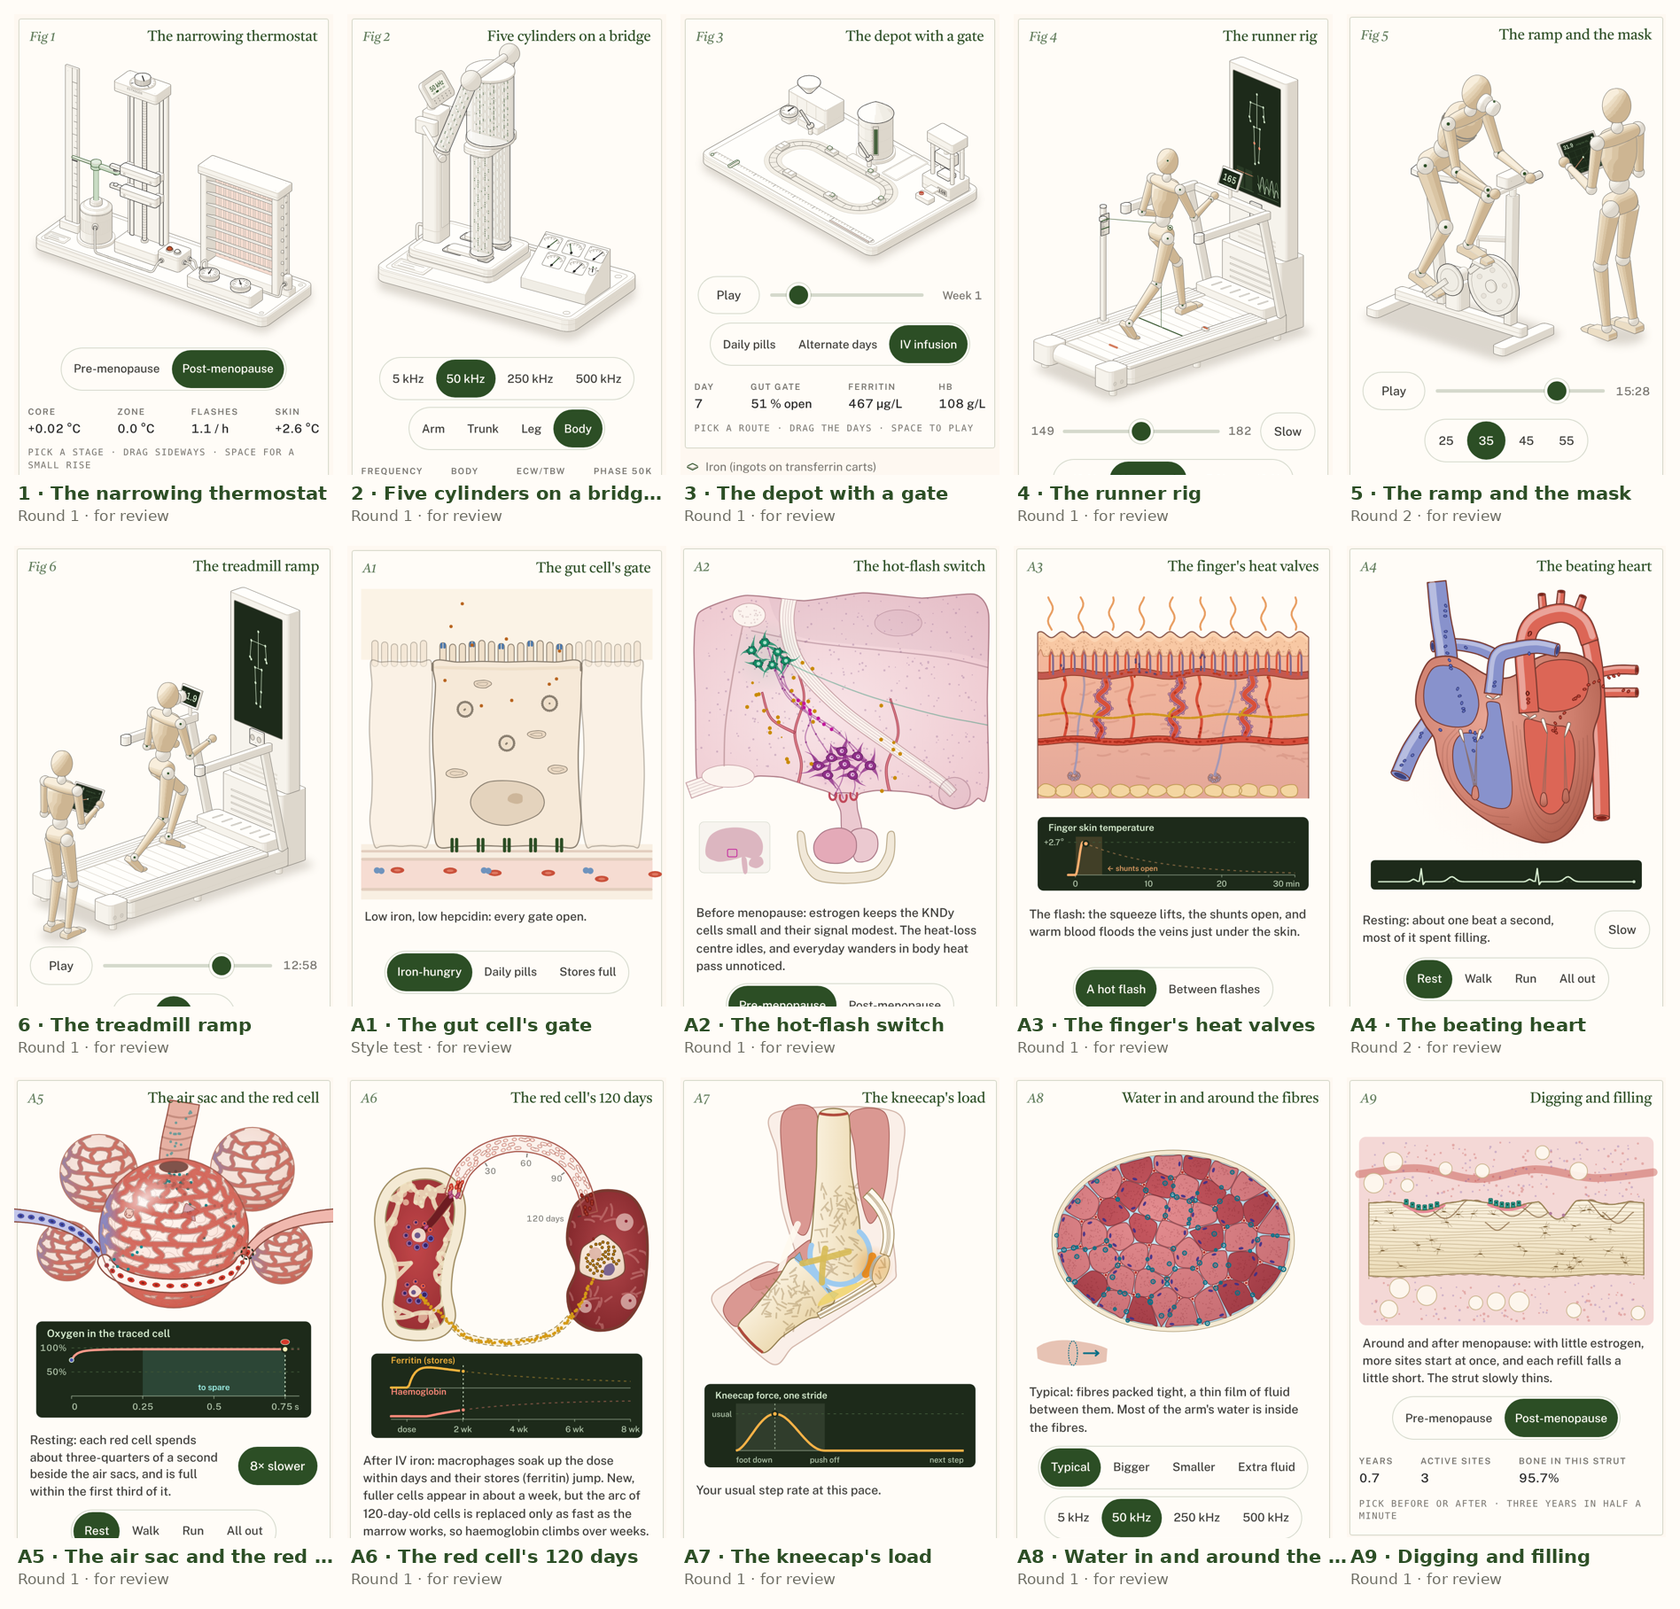
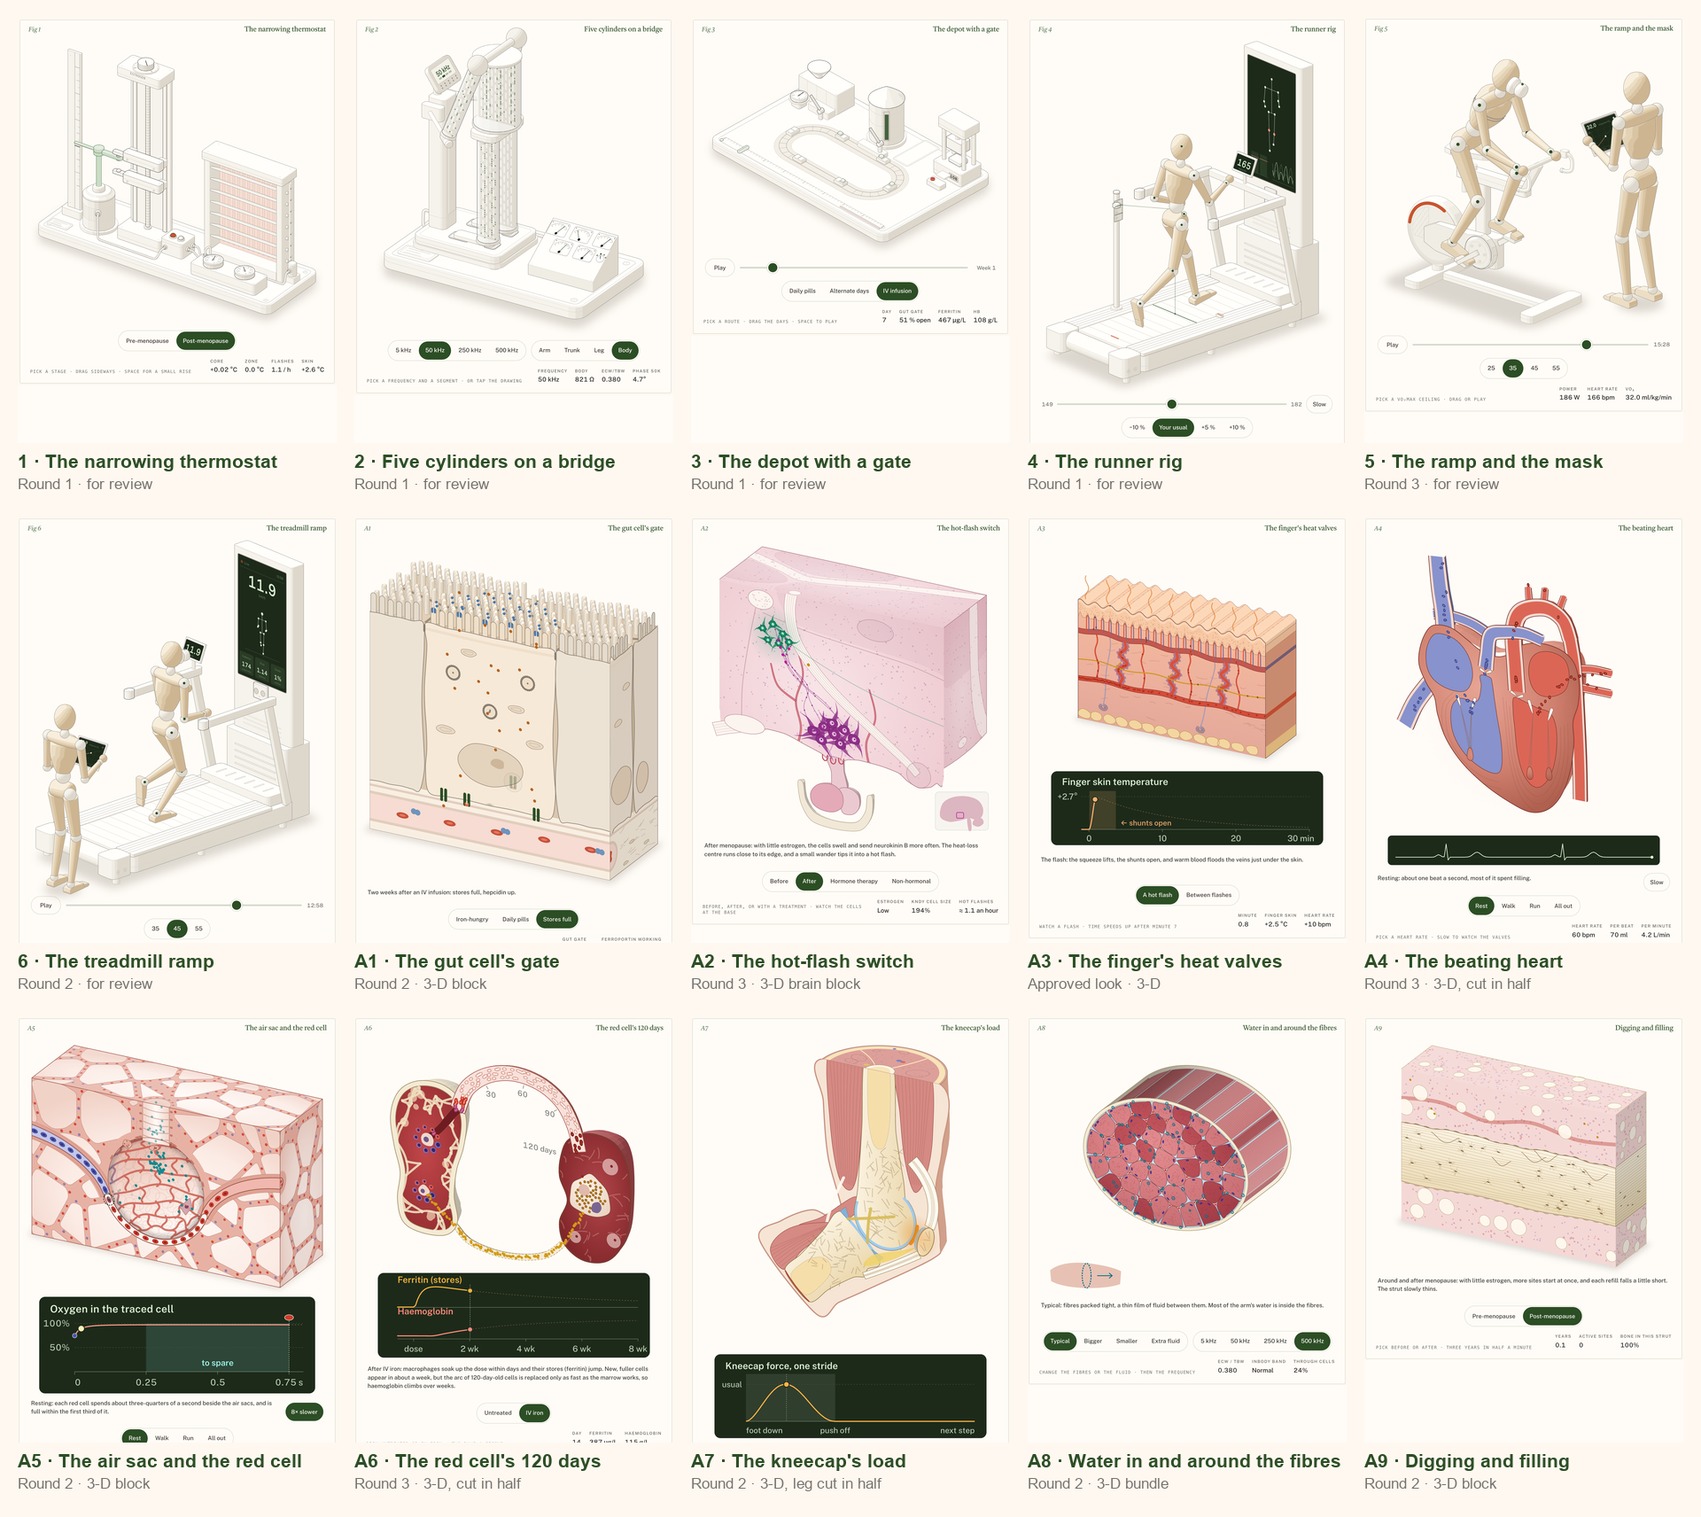
Contact sheet, handoff and backlog for the finished 3-D conversion
- review/contact-sheet.png is regenerated: all 15 figures, with every
  anatomy piece now in isometric 3-D. New scripts/contact-sheet.py
  rebuilds it from the Cream desktop captures (Pillow).
- HANDOFF-LOCAL:
  - status table brought up to date;
  - decisions 13 and 14 (the organ approach Peter approved on A7; the
    heart animation note);
  - open questions and next steps rewritten;
  - recipe split into 6a, tissue blocks, and 6b, organs cut in half
    with shared/round-back.js;
  - verify is now one command;
  - four new gotchas.
- BACKLOG marks the 3-D conversion done and lists what's open.
- CLAUDE.md lists the verify and contact-sheet commands.
- Phone shots refreshed after the shared-theme fixes (all 15 at 320 px).

diff --git a/scripts/contact-sheet.py b/scripts/contact-sheet.py
@@ -1,0 +1,66 @@
+# Rebuild review/contact-sheet.png: every figure's Cream desktop capture, cropped to its art, in a 5-column
+# grid with its number, title and status (from figure.json). Run after scripts/verify.mjs has refreshed the
+# shots:  python3 scripts/contact-sheet.py   (needs Pillow: pip install pillow)
+import json
+import os
+from PIL import Image, ImageDraw, ImageFont
+
+ROOT = os.path.dirname(os.path.dirname(os.path.abspath(__file__)))
+# folder, the capture that best shows the idea (first that exists)
+ORDER = [
+    ("01-menopause-thermostat", ["desktop-light-flash.png", "desktop-light.png"]),
+    ("02-inbody-580", ["desktop-light.png"]),
+    ("03-iv-iron", ["desktop-light-iv-day7.png", "desktop-light.png"]),
+    ("04-creator-600", ["desktop-light.png"]),
+    ("05-vo2max", ["desktop-light.png"]),
+    ("06-vo2max-treadmill", ["desktop-light.png"]),
+    ("a1-gut-cell", ["desktop-full-light.png", "desktop-light.png"]),
+    ("a2-hypothalamus", ["desktop-post-light.png", "desktop-light.png"]),
+    ("a3-finger-skin", ["desktop-light.png"]),
+    ("a4-heart", ["desktop-light.png"]),
+    ("a5-alveolus", ["desktop-light.png"]),
+    ("a6-red-cell-cycle", ["desktop-iv-light.png", "desktop-light.png"]),
+    ("a7-knee", ["desktop-light.png"]),
+    ("a8-muscle-water", ["desktop-light.png"]),
+    ("a9-bone-remodelling", ["desktop-post-light.png", "desktop-light.png"]),
+]
+CW, CH, COLS, PAD, LABEL = 360, 480, 5, 20, 64
+
+
+def font(size, bold=True):
+    for f in ["/System/Library/Fonts/Supplemental/Arial Bold.ttf" if bold else "/System/Library/Fonts/Supplemental/Arial.ttf", "/usr/share/fonts/truetype/dejavu/DejaVuSans-Bold.ttf"]:
+        try:
+            return ImageFont.truetype(f, size)
+        except OSError:
+            pass
+    return ImageFont.load_default()
+
+
+cards = []
+for folder, names in ORDER:
+    base = os.path.join(ROOT, "figures", folder)
+    path = next((os.path.join(base, "shots", n) for n in names if os.path.exists(os.path.join(base, "shots", n))), None)
+    if not path:
+        continue
+    meta = json.load(open(os.path.join(base, "figure.json"))) if os.path.exists(os.path.join(base, "figure.json")) else {}
+    im = Image.open(path).convert("RGB")
+    im = im.resize((CW, round(im.height * CW / im.width)), Image.LANCZOS)
+    card = Image.new("RGB", (CW, CH), (255, 252, 247))  # captures shorter than the crop sit on cream, not black
+    card.paste(im.crop((0, 0, CW, min(CH, im.height))), (0, 0))
+    im = card
+    n = str(meta.get("n", ""))
+    cards.append((im, f"{n if n.startswith('A') else n} · {meta.get('title', folder)}", meta.get("status", "")))
+
+rows = (len(cards) + COLS - 1) // COLS
+sheet = Image.new("RGB", (PAD + COLS * (CW + PAD), PAD + rows * (CH + LABEL + PAD)), (254, 248, 241))
+d = ImageDraw.Draw(sheet)
+for i, (im, title, status) in enumerate(cards):
+    x = PAD + (i % COLS) * (CW + PAD)
+    y = PAD + (i // COLS) * (CH + LABEL + PAD)
+    sheet.paste(im, (x, y))
+    t = title if d.textlength(title, font=font(21)) <= CW else title[: max(4, int(len(title) * CW / d.textlength(title, font=font(21))) - 2)] + "…"
+    d.text((x, y + CH + 8), t, fill=(44, 78, 37), font=font(21))
+    d.text((x, y + CH + 36), status, fill=(118, 115, 109), font=font(17, False))
+out = os.path.join(ROOT, "review", "contact-sheet.png")
+sheet.save(out)
+print("wrote", os.path.relpath(out, ROOT), sheet.size, f"{len(cards)} figures")

diff --git a/HANDOFF-LOCAL.md b/HANDOFF-LOCAL.md
@@ -1,6 +1,6 @@
 # Handoff: continuing locally
 
-The cloud session ends here; its credits are nearly spent. This file is the full state of the project for a local Claude Code session on the Mac, which runs on the Max plan's limits, not cloud credits. **Last updated:** 2026-10-12, end of cloud work. `main` and the cloud branch `claude/wonderful-mayer-ga12kl` are identical. Work on `main`, or on a new branch merged to `main`.
+This file is the full state of the project. It was written for the hand-off from the cloud session to a local Claude Code session on the Mac (Max plan limits, not cloud credits), and the local session has kept it current since. **Last updated:** 2026-10-12, end of the local session: every A-piece is now isometric 3-D. Work on `main`.
 
 **First prompt for the local session:**
 > Read CLAUDE.md, HANDOFF.md, HANDOFF-LOCAL.md and BACKLOG.md. Then continue from "Next steps" in HANDOFF-LOCAL.md.
@@ -13,7 +13,7 @@ cd optimal-anatomy-figures
 node -v                               # needs Node 20+ (brew install node)
 bash scripts/setup-cloud.sh           # finds Chrome, writes .env.chrome, smoke-tests a capture
 source .env.chrome                    # every capture/drive/lines command needs CHROME_PATH
-node scripts/build-all.mjs            # builds all 16 figures + gallery into dist/
+node scripts/build-all.mjs            # builds all 15 figures + gallery into dist/ ("15/15 built")
 open dist/index.html
 claude                                # Claude Code reads CLAUDE.md on start
 ```
@@ -21,7 +21,7 @@ claude                                # Claude Code reads CLAUDE.md on start
 - `scripts/chrome-root.sh` (Chrome with `--no-sandbox`) is only for cloud containers that run as root. On the Mac, `setup-cloud.sh` should find `/Applications/Google Chrome.app`. If it doesn't, set `CHROME_PATH` in `.env.chrome` by hand.
 - Live gallery: https://optimal-research-team.github.io/optimal-anatomy-figures/. Pushing `main` deploys it via `.github/workflows/pages.yml` in about a minute.
 
-## 2. Status (16 figures, all in the gallery)
+## 2. Status (15 figures, all in the gallery; every anatomy piece is 3-D)
 
 | # | Figure | State | Folder |
 |---|---|---|---|
@@ -37,7 +37,7 @@ claude                                # Claude Code reads CLAUDE.md on start
 | A4 | Beating heart | **Round 3 · 3-D, cut in half** (2026-10-12): back half round and beating (shared/round-back.js), vessels cut open with half-ring ends | `a4-heart` |
 | A5 | Air sac and red cell | **Round 2 · 3-D block of lung** (2026-10-12): Voronoi foam cut on three faces, one sac opened with its bowl, duct to the top | `a5-alveolus` |
 | A6 | Red cell's 120 days | **Round 3 · 3-D, cut in half** (2026-10-12): bone cut lengthwise, spleen cut open, arc and return as half-pipes, all with round backs | `a6-red-cell-cycle` |
-| A7 | Kneecap's load | **Round 2 · 3-D, leg cut in half** (2026-10-12): far half stays round (live), thigh cross-section on top. The organ-piece approach, **waiting on Peter's OK** before A2/A4/A6 | `a7-knee` |
+| A7 | Kneecap's load | **Round 2 · 3-D, leg cut in half** (2026-10-12): far half stays round (live), thigh cross-section on top. Peter: "way better, just do it like this", so it became the organ-piece approach | `a7-knee` |
 | A8 | Water in and around the fibres | **Round 2 · 3-D bundle**: slice on the face of a muscle cylinder; body redrawn live | `a8-muscle-water` |
 | A9 | Digging and filling (bone) | **Round 2 · 3-D block**; caption uses the Menopause Protocol's Greendale numbers | `a9-bone-remodelling` |
 
@@ -66,30 +66,31 @@ Every figure folder holds:
     - **Every other piece** is converted in place, as A8 and A9 were. No flat version stays in the gallery once its 3-D version exists.
 11. **A1: yes, convert to 3-D.**
 12. **A2, A4, A6 and A7 go 3-D too.** Pick the best approach from §5.2, build it on A7 (knee) first, and send screenshots. Wait for Peter's OK before converting A2, A4 and A6 the same way.
+13. **The organ approach is "cut in half, far half round."** A first try on A7, a constant-thickness slab, read as "an unnatural slice of some kind". The leg cut in half lengthwise, with the far half keeping its round skin and the thigh's cross-section on top, got "this is way better man just do it like this". A2 (as a brain block, since it's a piece of tissue cut out), A4 and A6 followed (§6b).
+14. **The heart animation "looks not great."** Fixed what a frame review found (aorta across the left atrium, arch seam, lumpy back half; see A4 NOTES). **Ask Peter whether it now reads right**, or what still bothers him: the beat itself (squeeze, valve timing) is unchanged from round 2.
 
 ## 4. Open questions for Peter
 
-- ~~Creator 600 screen size~~, ~~A3 vs A3b~~, ~~A1 look~~: answered 2026-10-12, see §3 items 9–11.
+- **The heart (A4):** after the fixes, does the animation read right? If not, what bothers you (the squeeze, the valves, the vessels, the colours)?
+- **Placement:** see `review/site-placement.md` (the beoptimal.ca scan), which proposes a home for every figure.
 - **Network:** with `beoptimal.ca`, `bici.cc` and `inbodycanada.ca` allowed (or locally), re-read the site pages directly instead of PDFs.
+- ~~Creator 600 screen size~~, ~~A3 vs A3b~~, ~~A1 look~~, ~~organ-piece approach~~: answered 2026-10-12, see §3.
 
 ## 5. Next steps (priority order)
 
-1. **Convert A1 (gut cell) and A5 (alveolus) to 3-D**, using the recipe in §6. A1 suits a block (a strip of gut lining: villi on top, cells on the front face). A5 suits a cut sphere or a block of lung tissue with the air sac opened.
-2. **Organ pieces (A2, A4, A6, A7):** these don't fit a block. Options, cheapest first:
-   - a short, deep slab under the flat drawing, giving a "specimen on a plate" look;
-   - shading the existing outlines with gradients and rim light to make them read as volumes;
-   - a true isometric rebuild (most work).
-
-   Ask Peter which he wants before doing more than one.
-3. **Re-run the full verification on A8 and A9** at 390 and 360 px; only 320 was captured after the 3-D change. Then refresh `review/contact-sheet.png`.
+1. **Peter's call on the heart (A4).** Then any round-4 changes.
+2. **Embeds on the site:** use the placement map (`review/site-placement.md`). Each figure ships `embed/optimal-fig-<slug>.js`, and NOTES.md has the snippet. The site repo (`BeOptimal/beoptimal-landing`) is a separate handoff.
+3. **Site copy fix:** the Creator 600 page says "32″ upright display"; it's about 50″ (§3 item 9).
 4. **Truth pass with the network open:** re-check the MEDIUM/LOW rows in `reference/truth-pack.md`.
 5. **Round-2 options still open** (BACKLOG.md):
    - Fig 2: an ECW/TBW scenario switch, partly covered by A8 now;
    - Fig 3: readout wording;
    - Fig 1: optional WebGL heat shimmer (at most one WebGL layer, and the SVG must read without it).
-6. **Embedding:** each figure ships `embed/optimal-fig-<slug>.js`; NOTES.md has the snippet. Give Peter the snippets for the pages he names.
+6. **Optional tidy-up:** A7's `drawFar()` predates `shared/round-back.js` and could move onto it (`chords()`), as A2, A4 and A6 already have.
 
-## 6. The 3-D recipe (A3b, A8, A9)
+## 6. The 3-D recipe
+
+### 6a. Tissue blocks (A1, A3, A5, A8, A9)
 
 - **Projection:** `k.fitProjection(BOUNDS3, 600, H, { pad, azimuth: 62, elevation: 24 })`, then `FB = figkit(PB)`. At azimuth 62° the front section stays almost face-on and still legible on a phone, and the top and right end show depth. At 30° the face is too foreshortened.
 - **World coordinates = section pixels:** x along the section, y back into the tissue, z up. A helper `W3(sx, y, sy) = [sx - X0, y, H - sy]` puts any section point on the plane at depth y.
@@ -105,6 +106,23 @@ Every figure folder holds:
   - both themes.
 
   The `--audit` check applies to kit solids only, not to these hand-drawn faces.
+- **A1 and A5 add:**
+  - real 3-D detail standing on a face: A1's 272 microvilli are capsules sorted by `k.depthOf`;
+  - faces that are exact sections of one 3-D structure: A5's Voronoi foam is cut by three planes with half-plane clipping, so air spaces meet across every edge.
+
+### 6b. Organs cut in half (A2, A4, A6, A7)
+
+What Peter approved on A7: the section is the cut face, the near half is gone, and **the far half keeps its round surface**. Do not extrude the outline at constant thickness; that read as "an unnatural slice".
+- **Cut face:** as in 6a: `planeMatrix(S3(0, DEP, 0), [1,0,0], [0,0,-1])`, where `S3(sx, y, sy) = [sx, y, -sy]` and the viewer is on the +y side. Clip it flat wherever the organ is cut across (A7's thigh at y = −14, A2's block).
+- **Back half: `shared/round-back.js`,** inlined into the page after the model. Build solves one unit of depth in the cut face's own coordinates (`WD1 = M⁻¹ · (iso(depth 1) − iso(origin))`) and passes `far: { w: WD1, A: 62, E: 24, dep: DEP }`.
+  - `rim(outline, { rho })`: a closed blob rolls back over a quarter-round, so a circle becomes a hemisphere (heart, spleen, bone, pituitary).
+  - `chords(edgeA, edgeB, { caps })`: paired edges become half-circles (a limb, a vessel), with optional half-ring cut ends.
+  - Facets facing away are culled, the rest shaded in 21 tones, and `paintObjects()` merges them per object and tone (about 100 paths a frame).
+  - Moving organs (A4, and A7 via its own `drawFar`) redraw it every frame. Static ones (A2, A6) draw it once at mount.
+- **Cut ends you can see:** draw them as textures on their plane, as real cross-sections (A7's thigh: femur ring and marrow, compartments, femoral vessels, sciatic nerve).
+- **Bounds:** fit the camera to what really shows (the outline plus its back half rolled 30° and 60°), not the back pole, or the figure shrinks.
+- **A piece that is cut-out tissue** (A2) is a block after all, with flat cut faces. Only what's naturally round (pituitary, stalk, nerve) gets round backs.
+
 
 ## 7. How a figure is built (unchanged)
 
@@ -119,6 +137,16 @@ Every figure folder holds:
 
 ## 8. Verify (definition of done)
 
+**One command per figure** (local session): builds both themes; checks line ends on both; takes phones at 390/360/320 in both themes (shot plus no-sideways-scroll check), reduced motion and desktop; requires a clean console on every run; prints a table.
+```bash
+source .env.chrome
+node scripts/verify.mjs a7-knee                                   # all checks, shots into figures/a7-knee/shots/
+node scripts/verify.mjs a7-knee --pre steps.json --tag swing --only desktop   # a second state (drive.mjs actions first)
+python3 scripts/contact-sheet.py                                  # review/contact-sheet.png from the Cream desktop shots
+```
+`--only 320` re-shoots with default timing. For figures whose curated shots show a particular state (A7 at peak force, A9 post-menopause), pass the same `--pre`.
+
+The manual steps, if you need them:
 ```bash
 cd figures/<folder> && source ../../.env.chrome
 node build.mjs && node build.mjs --light
@@ -143,3 +171,7 @@ Use `drive.mjs` for interaction (`click`, `wait`, `eval`, `shot`). Put anything 
 - **320 px:** monitor labels and legend text clip first. Check every new label at 320.
 - **Network (cloud):** PubMed, Crossref, Health Canada, beoptimal.ca, bici.cc and inbodycanada.ca returned 403 under the cloud policy; WebSearch worked. Locally this doesn't apply.
 - **The repo is public:** no patient data, no secrets, no real clinic financials. The VO₂ images in `reference/equipment/*-STOCK.*` are stock photos, not Optimal's equipment.
+- **planeMatrix's y axis points down the section:** `S3(0, DEP, +1)` is one unit *down*. A flipped sign sent A7's walls the wrong way.
+- **objectBoundingBox gradients seam** where two shapes with different boxes meet (A2's square-cut face over the brain outline). Use one `userSpaceOnUse` gradient for the whole face.
+- **`max(44px, min-content)` is invalid CSS:** math functions take no intrinsic keywords, so the rule is dropped silently. The theme now uses `min-width: min-content` (padding keeps buttons ≥ 44 px).
+- **A convex hull is too much smoothing for a back half:** it bridges notches between vessels with a flat flap. Average the outline instead (A4).

diff --git a/BACKLOG.md b/BACKLOG.md
@@ -31,7 +31,7 @@ Each piece is done when it meets the same bar as HANDOFF §2, adapted:
 - NOTES.md;
 - in the gallery.
 
-## 3-D conversion (Peter, 2026-10-12: "make the design more beautiful … isometric 3-D"; A3b approved)
+## 3-D conversion (Peter, 2026-10-12: "make the design more beautiful … isometric 3-D"; A3b approved) · **done 2026-10-12**
 
 | Piece | 3-D state |
 |---|---|
@@ -45,7 +45,9 @@ Each piece is done when it meets the same bar as HANDOFF §2, adapted:
 | A2 | done: block of brain (cut top and end), hanging parts cut in half with round backs (2026-10-12) |
 | A6 | done: bone and spleen cut in half, vessels as half-pipes, round backs (2026-10-12) |
 
-Recipe: HANDOFF-LOCAL §6.
+Recipe: HANDOFF-LOCAL §6a (tissue blocks) and §6b (organs cut in half, `shared/round-back.js`). Contact sheet: `review/contact-sheet.png` (`python3 scripts/contact-sheet.py`).
+
+**Open after the conversion:** Peter's verdict on the heart's animation (A4), and moving A7's `drawFar()` onto `shared/round-back.js`.
 
 ## Round-2 options already raised
 

diff --git a/CLAUDE.md b/CLAUDE.md
@@ -32,6 +32,8 @@ Import the kit by relative path from a figure, e.g. `../../.claude/skills/anatom
 bash scripts/setup-cloud.sh                     # Node + headless Chrome check, prints CHROME_PATH
 node figures/01-menopause-thermostat/build.mjs  # dark; add --light, --audit
 node scripts/build-all.mjs                      # all figures -> dist/ + gallery index
+node scripts/verify.mjs <figure-dir>            # every check (phones 390/360/320 x 2 themes, reduced, desktop, lines) + shots
+python3 scripts/contact-sheet.py                # review/contact-sheet.png
 node .claude/skills/anatomy/scripts/capture.mjs <page.html> --out shots/x.png   # see references/verify.md
 ```
 
